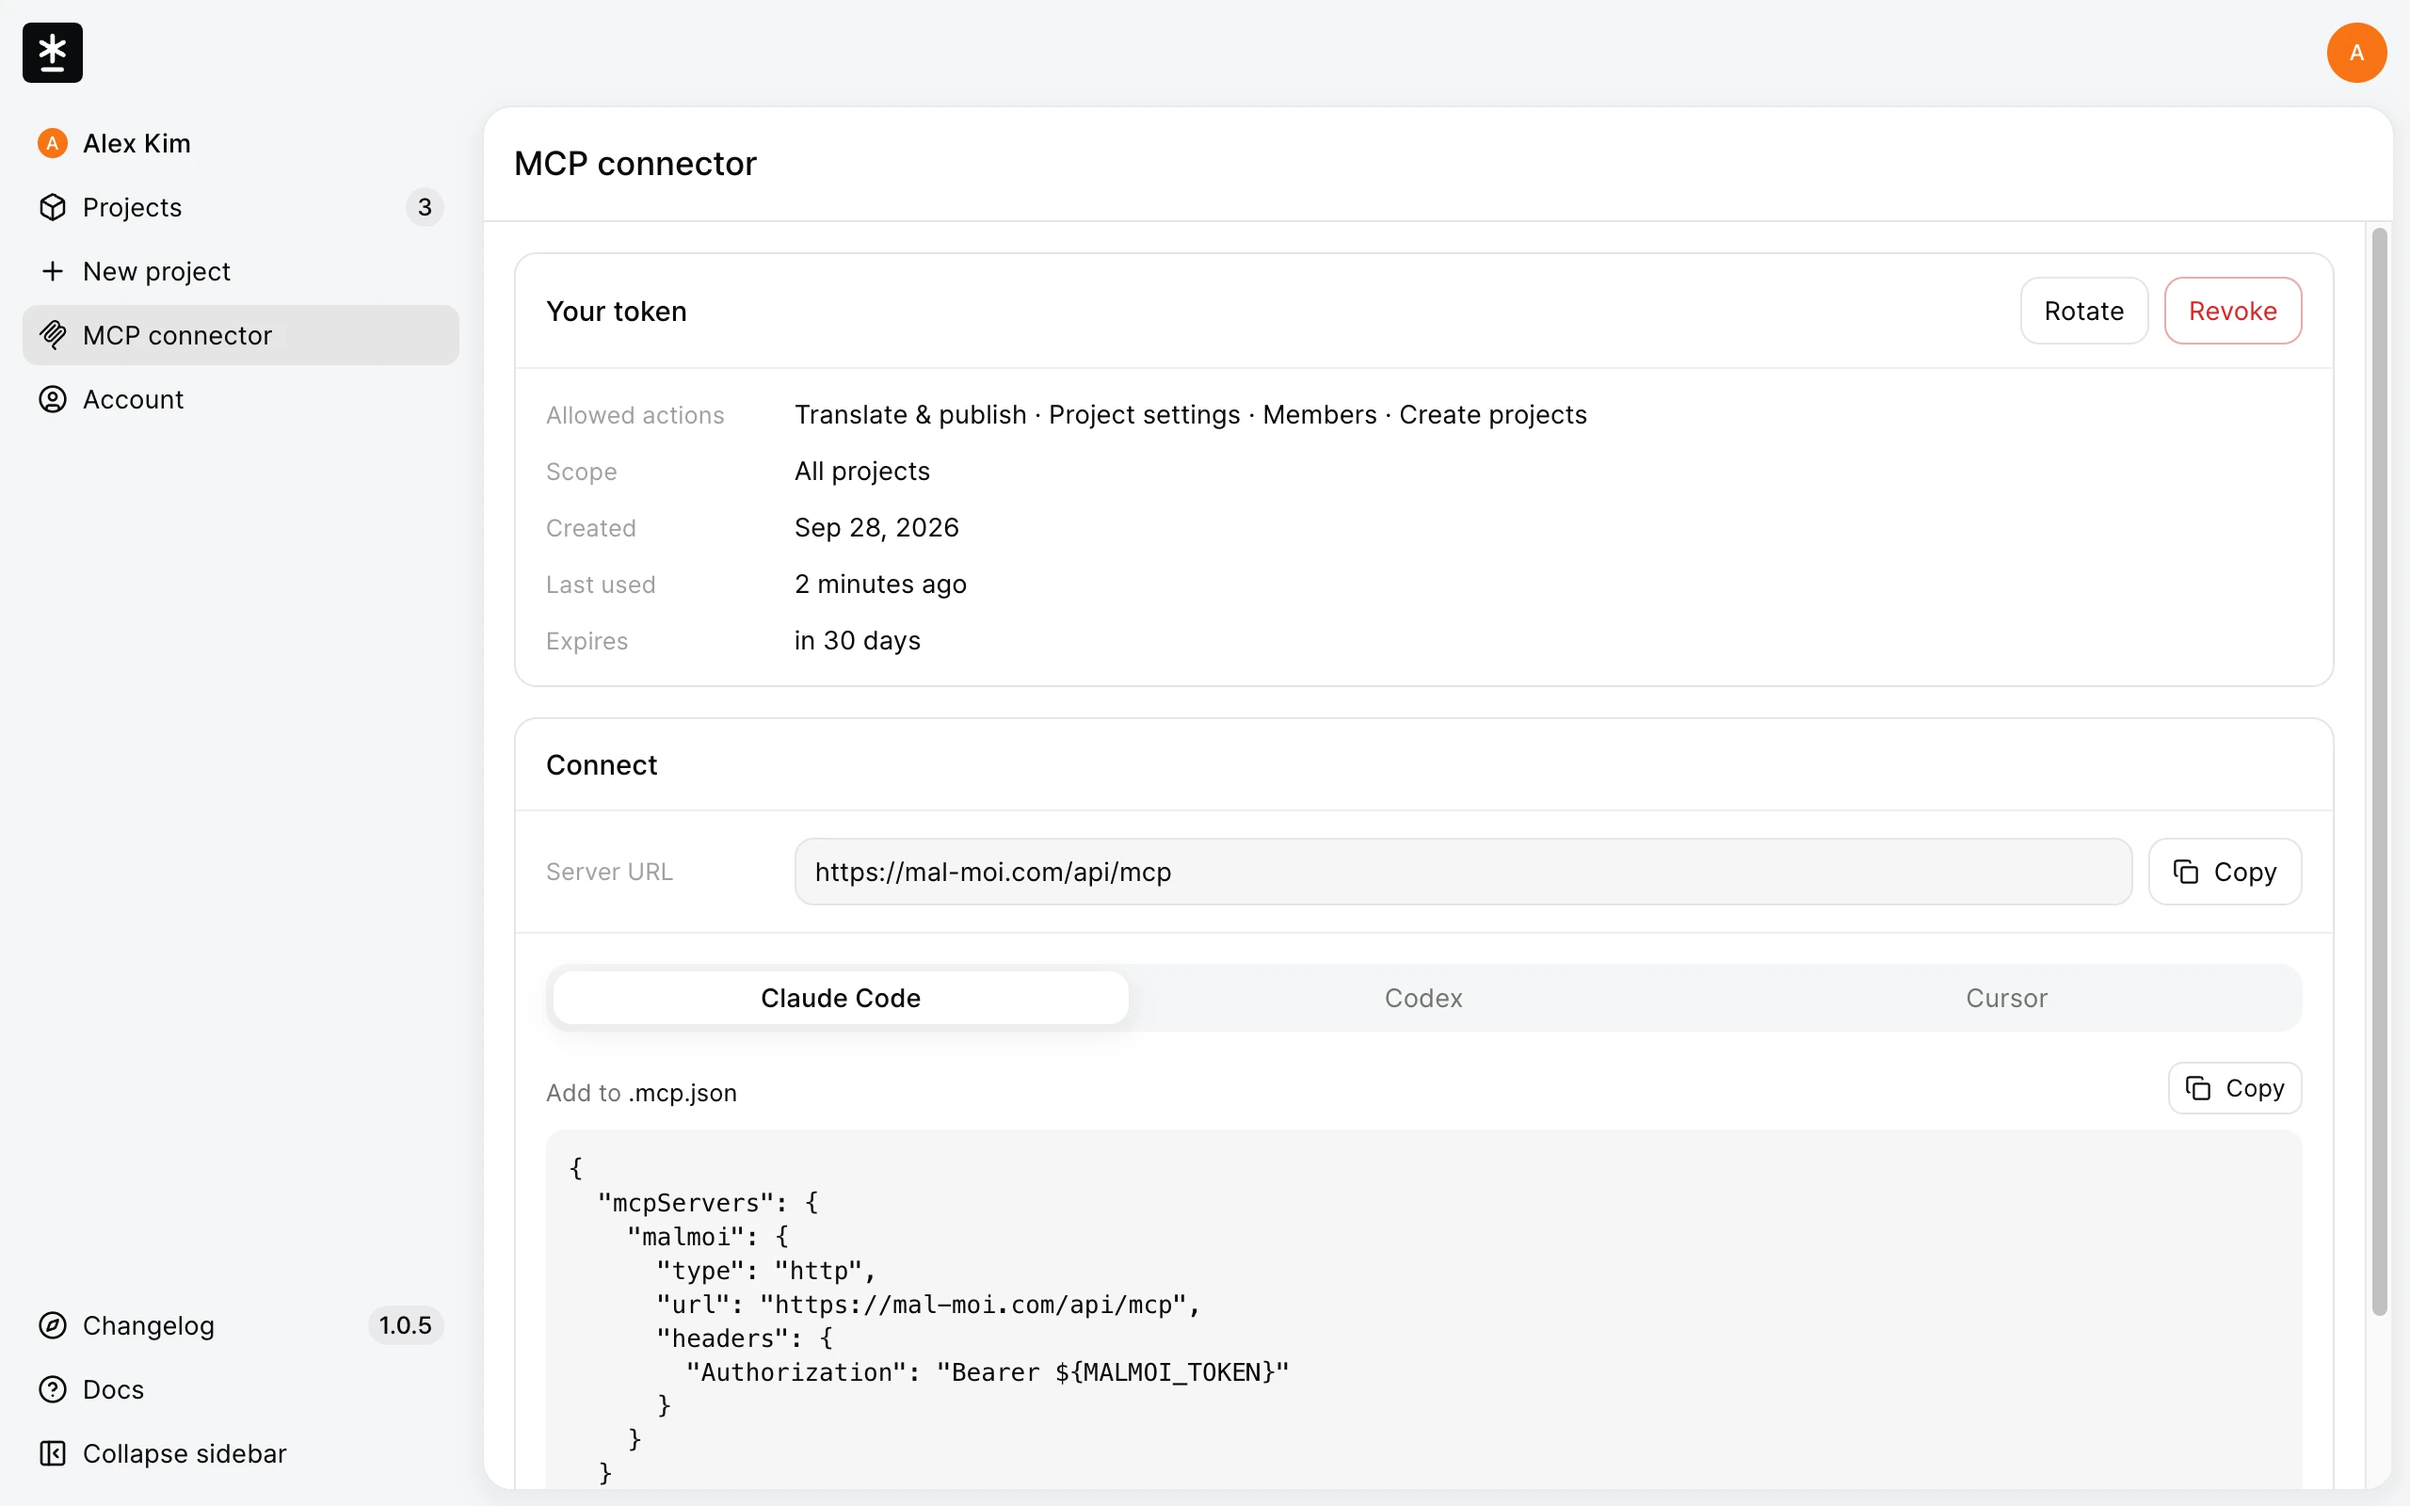
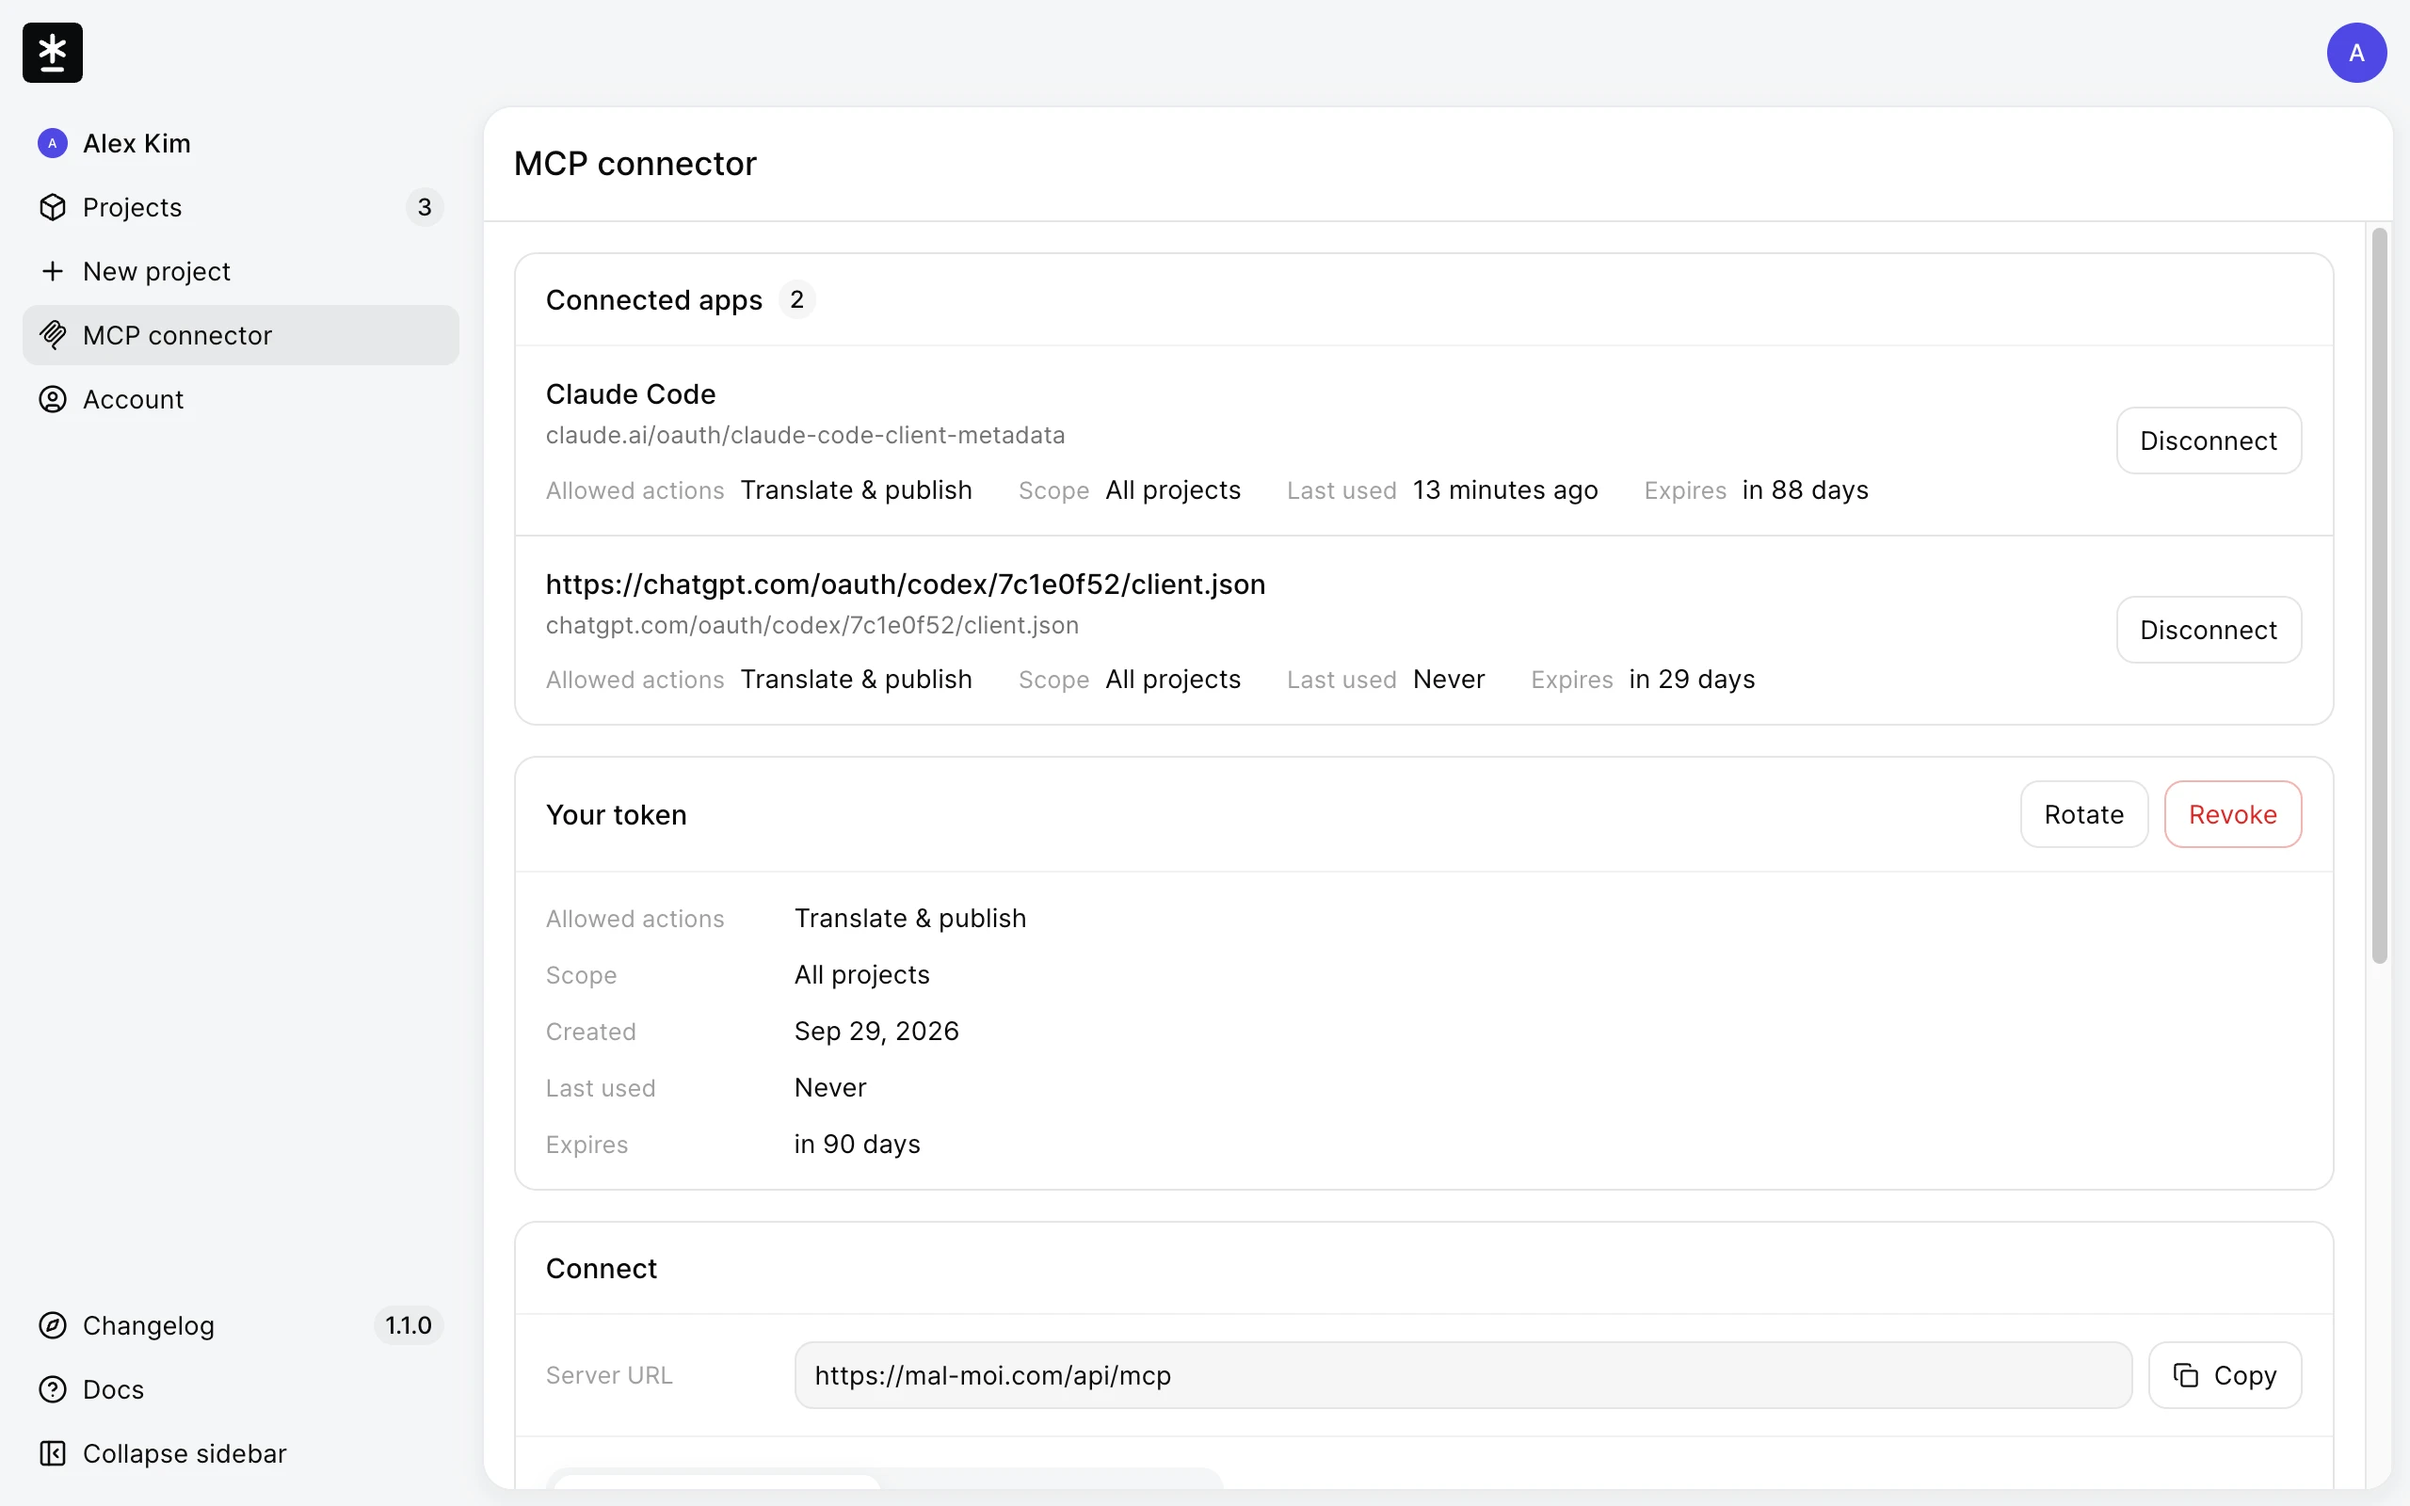
docs(guide): reshoot the MCP connector page with Connected apps
The shot now sits under Connected apps; the token dialog shot is
unchanged.

Refs docs/features/mcp-oauth T9

diff --git a/guide/ai-agents.md b/guide/ai-agents.md
@@ -59,6 +59,8 @@ Every agent you authorize is listed under **Connected apps** on the **MCP connec
 2. Find the app. Two connections can have the same name; the address under the name tells them apart.
 3. Choose **Disconnect**, then **Disconnect app**.
 
+![The MCP connector page with two connected apps, Claude Code and a Codex app shown by its address, each with its allowed actions, scope, last use, expiry, and a Disconnect button, above the personal token card](/guide/mcp-connector.webp "Disconnect an app you no longer use.")
+
 The app loses access from its next request. Your other apps and your personal token keep working. A connection that has expired stays listed with **Expired**; authorize the app again from the agent to keep using it.
 
 ## Create a token {#token}
@@ -80,8 +82,6 @@ You have one personal token at a time; connected apps don't count toward it. To 
 ## Add Malmoi with a token {#connect}
 
 The **Connect** card on the **MCP connector** page shows the same snippets with the server address for the site you are using: choose **Personal token** for these, or **Sign in with browser** for the ones [above](#browser).
-
-![The MCP connector page with the current token's allowed actions, scope, and expiry above the Connect card and its Claude Code snippet](/guide/mcp-connector.webp "Copy the snippet for your agent from the Connect card.")
 
 ### Claude Code {#claude-code}
 
